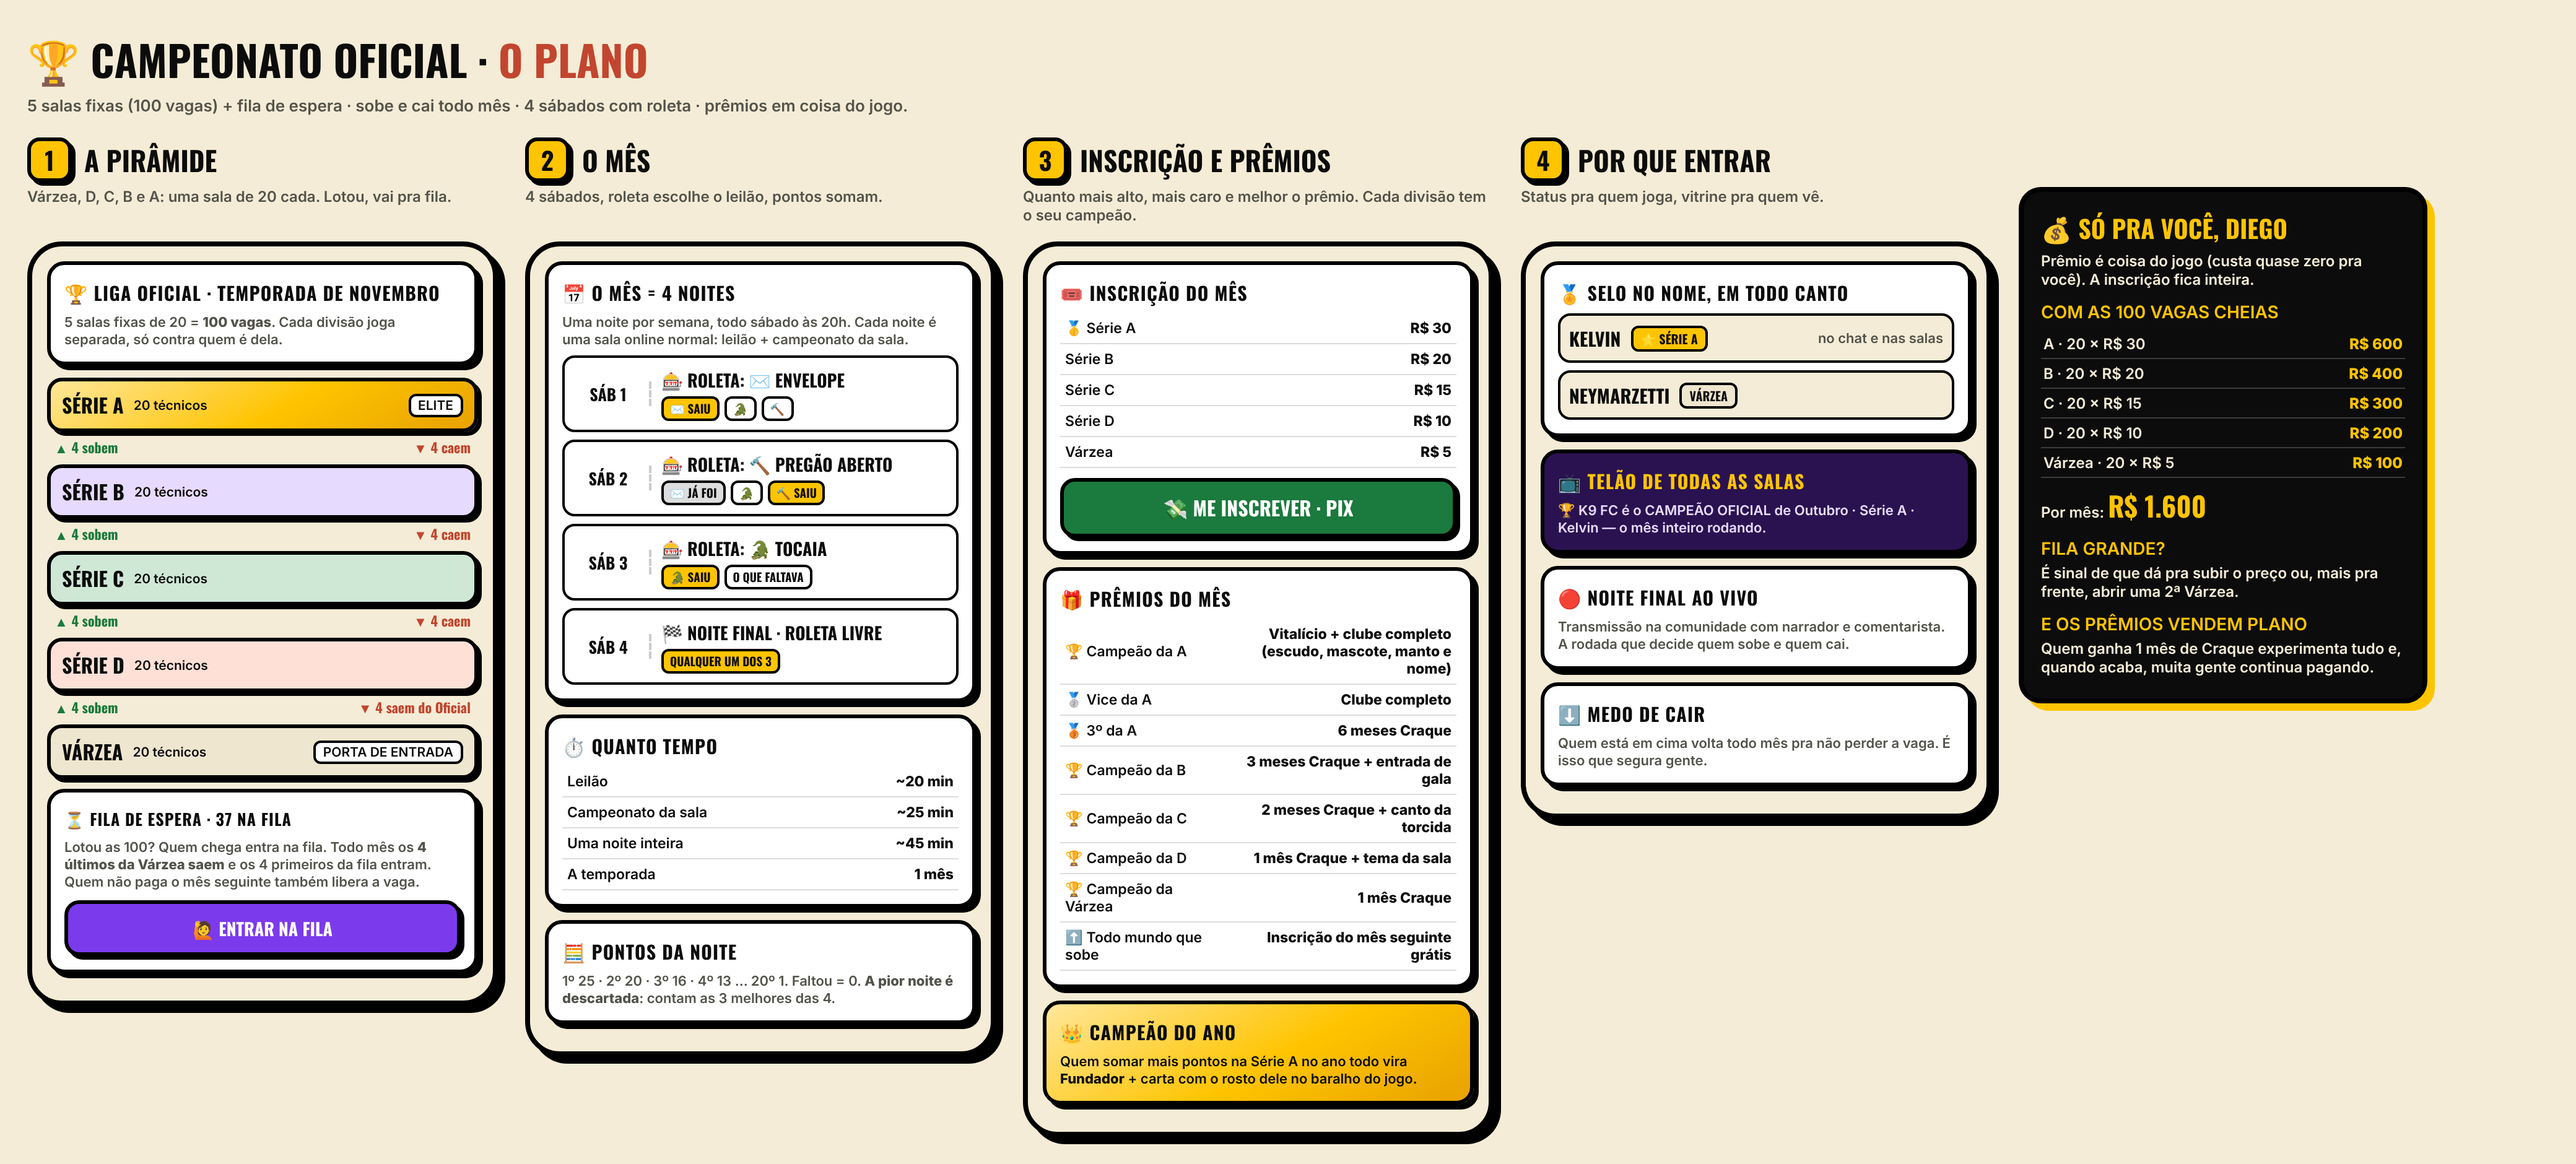
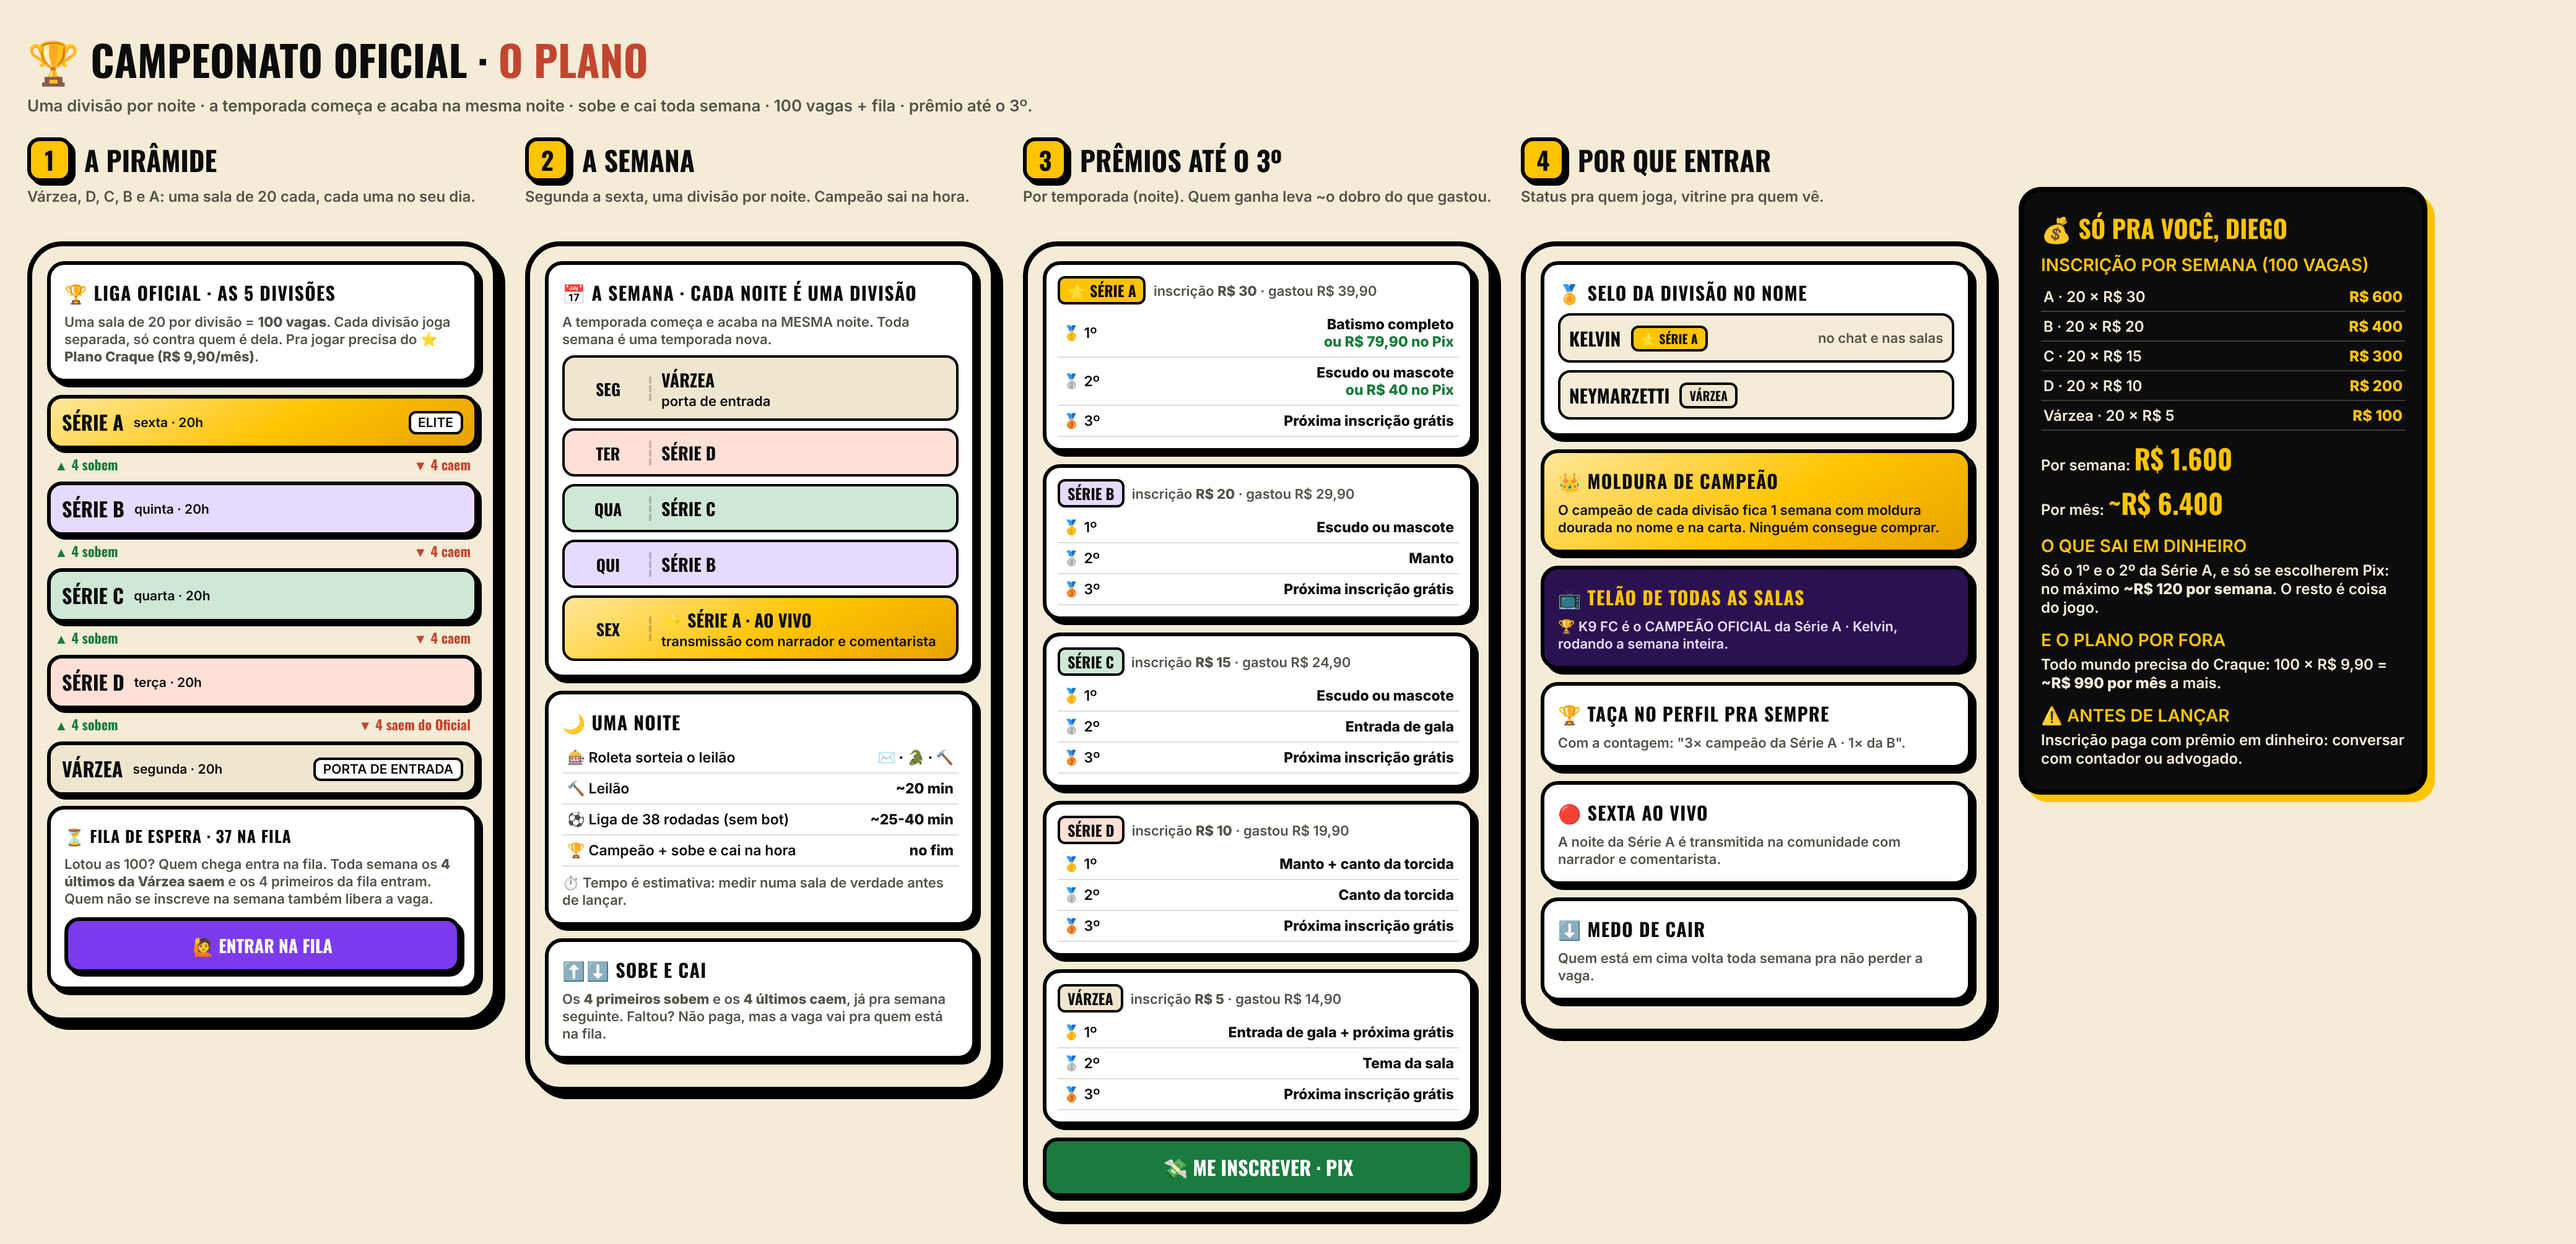
Mockup: Campeonato Oficial semanal (uma divisão por noite, inscrição por temporada, prêmios até o 3º) — só pra ver
Claude-Session: https://claude.ai/code/session_012GPrTDbpvrApA6DArkzCpE

diff --git a/docs/pendencias.md b/docs/pendencias.md
@@ -10860,3 +10860,4 @@ Escada que está saindo da conversa (ele ainda vai fechar o valor do vitalício)
 - 📐 PLANO em mockup (`scripts/mockups/campeonato-plano.png`, gerador `scripts/mockup-campeonato-plano.mjs`): pirâmide A(20)·B(20)·C(2 grupos)·D(4 grupos)·Várzea(sem limite), 4 sobem/4 caem por mês; 1ª temporada pelo Ranking Global; 4 sábados 20h (~45 min a noite), roleta sem repetir no mês, pontos 25·20·16·13…1, descarta a pior noite; inscrição por divisão A 30 · B 20 · C 15 · D 10 · Várzea 5; prêmios em itens (Vitalício pro campeão da A…). Exemplo: 180 inscritos = R$ 2.500/mês. Esperando OK.
 - 🔁 25/10: Diego quer **5 salas FIXAS** (Várzea·D·C·B·A = 100 vagas), não grupos. Mockup refeito: fila de espera (4 últimos da Várzea saem, 4 da fila entram; quem não paga libera vaga), prêmios melhores por divisão (A: Vitalício + clube completo · vice clube completo · 3º 6 meses Craque · campeões B/C/D/Várzea Craque + avulso · quem sobe ganha a inscrição seguinte · Campeão do Ano = Fundador + carta), aba "por que entrar" (selo, telão, final ao vivo). 100 vagas = R$ 1.600/mês. Esperando OK.
 - 🔁 25/10 (mais tarde): proposta nova — cada noite é o dia de UMA divisão (seg Várzea · ter D · qua C · qui B · sex A), o campeonato começa e acaba na mesma noite (leilão com roleta + 38 rodadas), 4 sobem/4 caem na hora, temporada = semana. Diego: **"todo mundo pagar por temporada a inscrição"** → leitura: A 30 · B 20 · C 15 · D 10 · Várzea 5 POR TEMPORADA (semana) = R$ 1.600/semana ≈ R$ 6.400/mês com 100 vagas. Perguntei se é isso.
+- ✅ FORMATO DO DIEGO (25/10, mockup final `scripts/mockups/campeonato-plano.png`): precisa do ⭐ Craque R$ 9,90/mês pra jogar · 5 divisões de 20 (100 vagas) + fila · seg Várzea · ter D · qua C · qui B · sex A (ao vivo) · temporada começa e acaba na noite (roleta do leilão + 38 rodadas, sem bot) · 4 sobem/4 caem na hora (4 últimos da Várzea saem, fila entra) · inscrição POR TEMPORADA A 30 · B 20 · C 15 · D 10 · V 5 · prêmio até o 3º, campeão leva ~o dobro do que gastou: A 1º Batismo completo OU R$ 79,90 Pix · 2º escudo/mascote OU R$ 40 · 3º próxima grátis; B escudo/mascote · manto · grátis; C escudo/mascote · gala · grátis; D manto+canto · canto · grátis; V gala+grátis · tema · grátis. Dinheiro só na Série A (Diego: "tem que ter na série A dinheiro"; metade do pote = NÃO). Mais: selo da divisão, moldura de campeão 1 semana, telão, taça no perfil. ~R$ 1.600/semana. Esperando OK pra virar telas de verdade; checagem jurídica antes de lançar.
